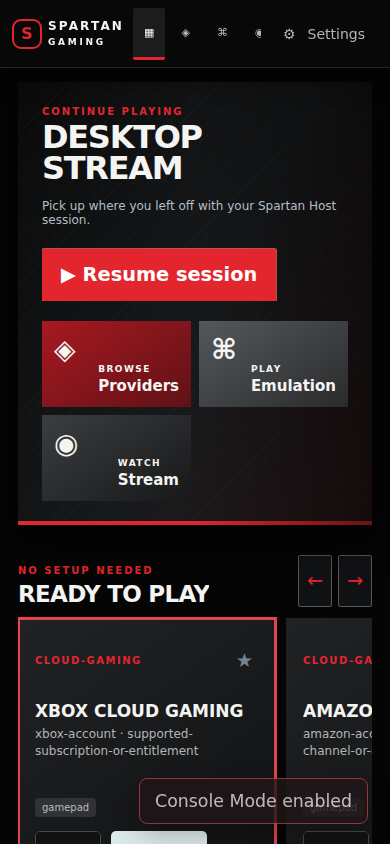
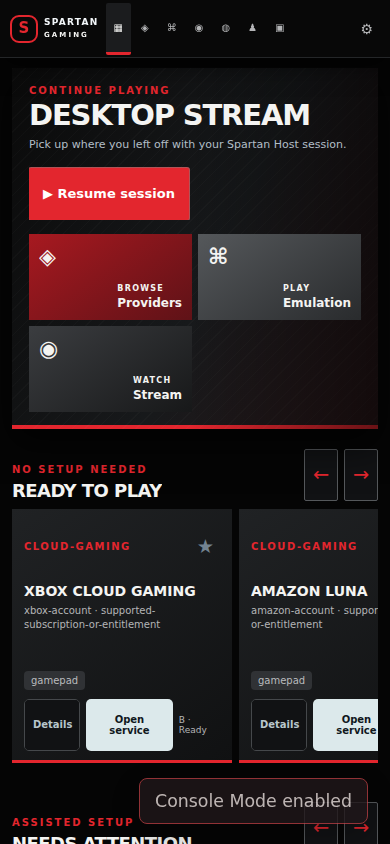
fix: scale down mobile console interface

diff --git a/src/frontend/dashboard/console-mode.css b/src/frontend/dashboard/console-mode.css
@@ -564,3 +564,109 @@ body.console-mode .chip {
   background: #303235;
   color: var(--spartan-silver);
 }
+@media (max-width: 700px) {
+  body.console-mode .sidebar {
+    height: 58px;
+    padding: 6px 10px;
+    gap: 7px;
+  }
+  body.console-mode .brand {
+    gap: 6px;
+    font-size: 9px;
+    letter-spacing: 0.14em;
+  }
+  body.console-mode .brand-mark {
+    width: 28px;
+    height: 28px;
+    font-size: 15px;
+  }
+  body.console-mode .brand small {
+    font-size: 7px;
+  }
+  body.console-mode .main-nav {
+    gap: 2px;
+  }
+  body.console-mode .main-nav .nav-item {
+    padding: 6px 8px;
+    font-size: 10px;
+  }
+  body.console-mode .main-nav .nav-item span {
+    display: none;
+  }
+  body.console-mode .sidebar-bottom .nav-item {
+    padding: 6px 7px;
+  }
+  body.console-mode .sidebar-bottom .nav-item span {
+    display: none;
+  }
+  body.console-mode .content {
+    height: calc(100dvh - 58px);
+    padding: 10px 12px 24px;
+  }
+  body.console-mode .hero {
+    gap: 14px;
+    padding: 17px;
+    margin-bottom: 20px;
+  }
+  body.console-mode .hero h2 {
+    font-size: 29px;
+  }
+  body.console-mode .hero-copy {
+    margin: 9px 0 15px;
+    font-size: 11px;
+    line-height: 1.3;
+  }
+  body.console-mode .primary-button {
+    padding: 10px 14px;
+    font-size: 13px;
+  }
+  body.console-mode .console-tile-grid {
+    min-height: 132px;
+    gap: 6px;
+  }
+  body.console-mode .console-tile {
+    min-height: 62px;
+    padding: 10px;
+    font-size: 12px;
+  }
+  body.console-mode .console-tile small {
+    font-size: 8px;
+  }
+  body.console-mode .console-tile-icon {
+    font-size: 22px;
+  }
+  body.console-mode .shelf-heading {
+    margin-bottom: 6px;
+  }
+  body.console-mode .shelf-heading h3 {
+    font-size: 18px;
+  }
+  body.console-mode .shelf-viewport {
+    gap: 7px;
+    padding-bottom: 9px;
+  }
+  body.console-mode .shelf-viewport .card {
+    flex-basis: min(68vw, 220px);
+    min-height: 142px;
+    padding: 12px;
+  }
+  body.console-mode .shelf-viewport .card h3 {
+    font-size: 14px;
+    margin-top: 10px;
+  }
+  body.console-mode .shelf-viewport .card p {
+    font-size: 10px;
+  }
+  body.console-mode .shelf-viewport .card-actions {
+    margin-top: 9px;
+    gap: 6px;
+  }
+  body.console-mode .shelf-viewport .launch,
+  body.console-mode .shelf-viewport .details-button {
+    padding: 6px 8px;
+    font-size: 10px;
+  }
+  body.console-mode .shelf-viewport .details {
+    font-size: 9px;
+  }
+}
